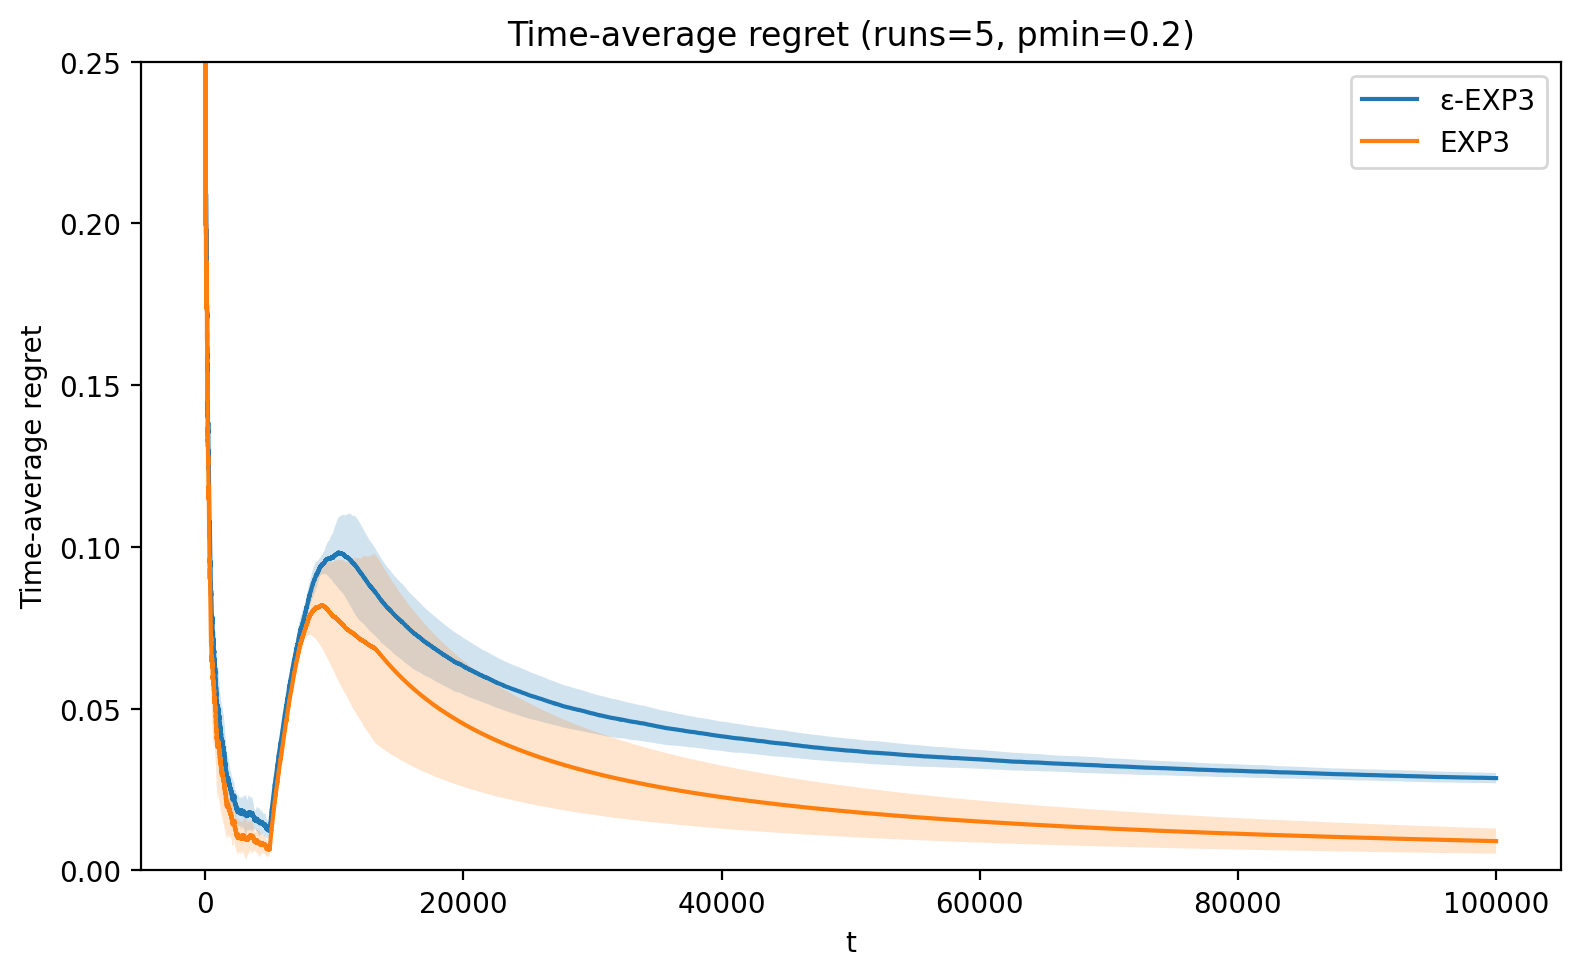
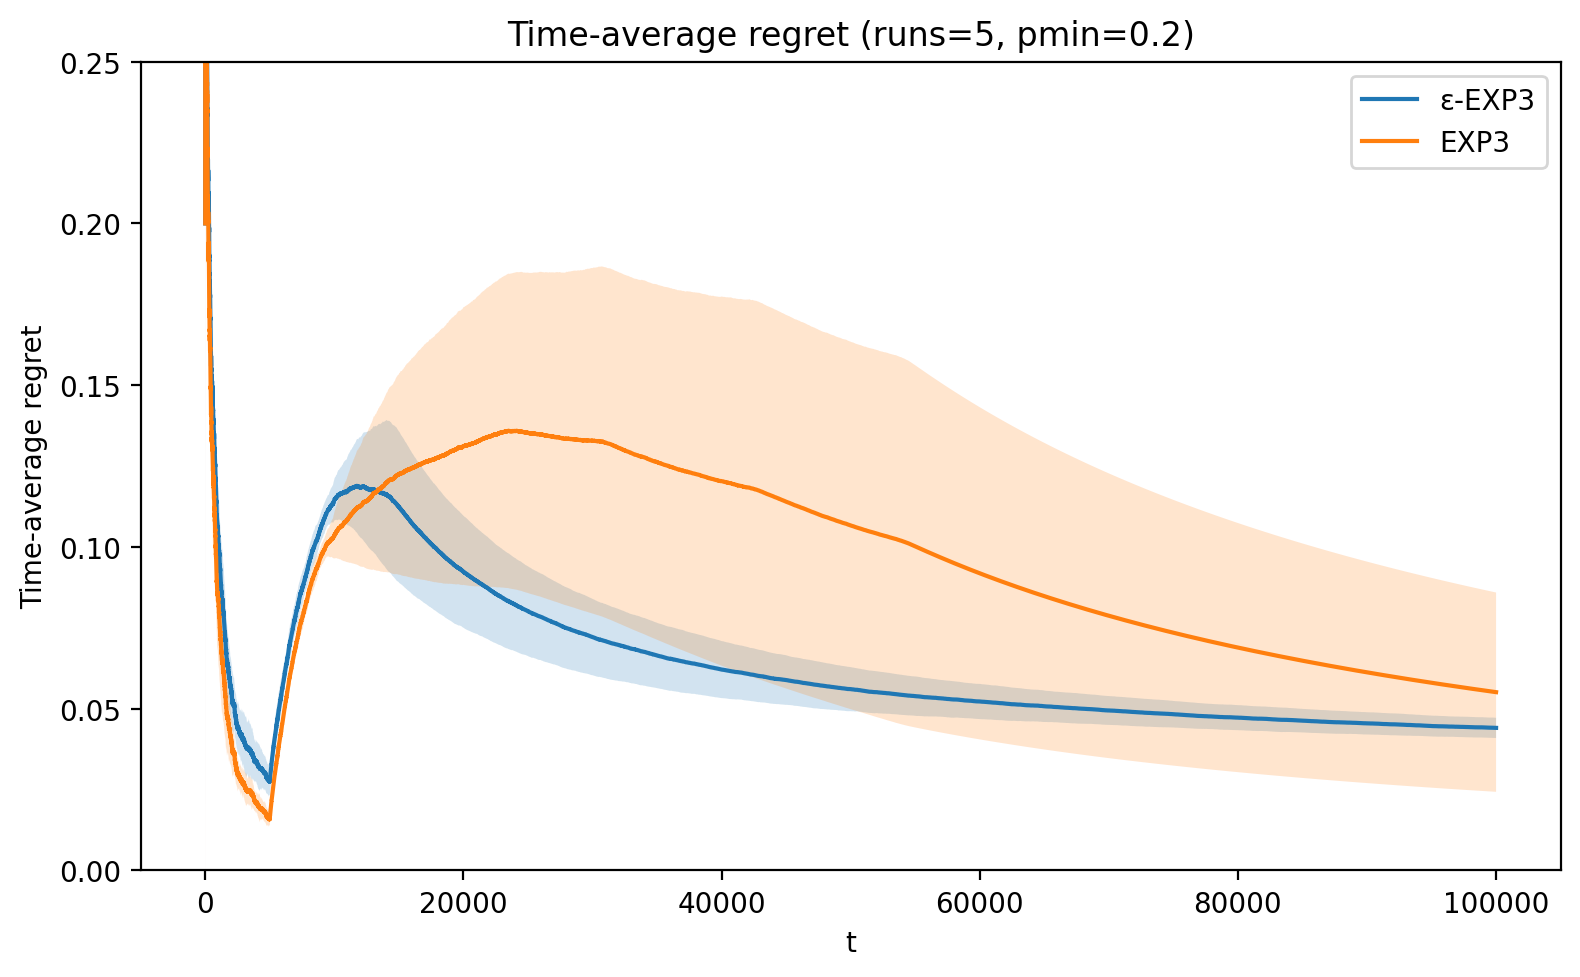
eta0.01还原论文

diff --git a/simulate.py b/simulate.py
@@ -117,7 +117,8 @@ class BernoulliEnv:
             for ell in self.tree.leaves:
                 acc[ell] += p_copy[ell]
 
-            prefix[tt - 1] = min(acc.values())
+            # prefix[tt - 1] = min(acc.values())
+            prefix[tt - 1] = acc[3]   # 基线固定为叶子3
         return prefix
 
 
@@ -131,7 +132,7 @@ def stable_softmax_weights(theta: np.ndarray, eta: float) -> np.ndarray:
         w = np.ones_like(theta)
         s = w.sum()
     p = w / s
-    p = np.maximum(p, 1e-8)  # 防止 0 概率
+    # p = np.maximum(p, 1e-8)  # 防止 0 概率
     p /= p.sum()
     return p
 
@@ -157,7 +158,7 @@ class NodeEXP3:
         return self.child_ids[idx], p, idx
 
     def update(self, chosen_index: int, observed_loss: float, local_prob: float):
-        local_prob = max(local_prob, 1e-8)
+        # local_prob = max(local_prob, 1e-8)
         ghat = observed_loss / local_prob
         self.theta[chosen_index] -= ghat
 
@@ -233,6 +234,8 @@ def time_average_regret_curve(runs=5, T=50000, pmin=0.4, eta=0.02, eps=0.05,
                 T=T, runs=runs, pmin=pmin, eta=eta, eps=eps, seed=seed
             )
         )
+    wandb.define_metric("regret/*",    step_metric="t_regret")
+    wandb.define_metric("baseline/*", step_metric="t_regret")   # ← 新增
 
     random.seed(seed); np.random.seed(seed)
     
@@ -271,7 +274,13 @@ def time_average_regret_curve(runs=5, T=50000, pmin=0.4, eta=0.02, eps=0.05,
             # 逐步记录（只在第一个 run 上记，减少日志量）
             if log_to_wandb and log_this:
                 key = "regret/eps" if algo == "eps-exp3" else "regret/exp3"
-                wandb.log({key: float(val), "t": int(t)}, step=int(t))
+                # 改成（新增 baseline 的时间平均成本）：
+                wandb.log({
+                    "t_regret": int(t),
+                    key: float(val),                              # 算法的 time-average regret
+                    "baseline/avg_cost": float(comp_prefix[t-1] / t)  # 基线：最优固定叶子的时间平均成本
+                })
+
         return np.array(regrets)
 
     # 多次独立运行求均值/方差。
@@ -280,33 +289,33 @@ def time_average_regret_curve(runs=5, T=50000, pmin=0.4, eta=0.02, eps=0.05,
     m_eps, s_eps = eps_runs.mean(0), eps_runs.std(0)
     m_exp, s_exp = exp3_runs.mean(0), exp3_runs.std(0)
 
-    plt.figure(figsize=(8,5))
-    plt.plot(Ts, m_eps, label="ε-EXP3")
-    plt.fill_between(Ts, m_eps - s_eps, m_eps + s_eps, alpha=0.2)
-    plt.plot(Ts, m_exp, label="EXP3")
-    plt.fill_between(Ts, m_exp - s_exp, m_exp + s_exp, alpha=0.2)
-    plt.xlabel("t")
-    plt.ylabel("Time-average regret")
-    plt.title(f"Time-average regret (runs={runs}, pmin={pmin})")
-    # ✅ 压缩 y 轴范围（按当前数据自动设一个窄窗）
-    ymin = min(m_eps.min(), m_exp.min()) - 0.02
-    ymax = max(m_eps.max(), m_exp.max()) + 0.02
-    # 进一步收紧窗口（例如上下各留 0.03 的边距）
-    plt.ylim(max(0, ymin), min(0.25, ymax))  # 你也可以直接写死 plt.ylim(0.04, 0.16)
-    plt.legend()
-    plt.tight_layout()
+    # plt.figure(figsize=(8,5))
+    # plt.plot(Ts, m_eps, label="ε-EXP3")
+    # plt.fill_between(Ts, m_eps - s_eps, m_eps + s_eps, alpha=0.2)
+    # plt.plot(Ts, m_exp, label="EXP3")
+    # plt.fill_between(Ts, m_exp - s_exp, m_exp + s_exp, alpha=0.2)
+    # plt.xlabel("t")
+    # plt.ylabel("Time-average regret")
+    # plt.title(f"Time-average regret (runs={runs}, pmin={pmin})")
+    # # ✅ 压缩 y 轴范围（按当前数据自动设一个窄窗）
+    # ymin = min(m_eps.min(), m_exp.min()) - 0.02
+    # ymax = max(m_eps.max(), m_exp.max()) + 0.02
+    # # 进一步收紧窗口（例如上下各留 0.03 的边距）
+    # plt.ylim(max(0, ymin), min(0.25, ymax))  # 你也可以直接写死 plt.ylim(0.04, 0.16)
+    # plt.legend()
+    # plt.tight_layout()
 
-    # 保存图片到脚本同目录
-    out = OUTDIR / "time_average_regret.png"
-    plt.savefig(out, dpi=200, bbox_inches="tight")
-    if log_to_wandb and run is not None:
-        wandb.log({
-            "fig/time_average_regret": wandb.Image(str(out))
-        })
+    # # 保存图片到脚本同目录
+    # out = OUTDIR / "time_average_regret.png"
+    # plt.savefig(out, dpi=200, bbox_inches="tight")
+    # if log_to_wandb and run is not None:
+    #     wandb.log({
+    #         "fig/time_average_regret": wandb.Image(str(out))
+    #     })
 
-    if show_plots:
-        plt.show()
-    plt.close()
+    # if show_plots:
+    #     plt.show()
+    # plt.close()
 
     if log_to_wandb and run is not None:
         run.finish()
@@ -320,6 +329,9 @@ def transient_plot(T=100000, eta=0.02, eps=0.05, seed=42, show_plots=False, log_
             run_name=f"transient_Ltoy_T{T}_eta{eta}_eps{eps}",
             config=dict(exp="transient", T=T, eta=eta, eps=eps, seed=seed)
         )
+    wandb.define_metric("transient/*", step_metric="t_transient")
+    wandb.define_metric("p_leaf/*", step_metric="t_transient")   # 新增
+
     random.seed(seed); np.random.seed(seed)
     tree = build_toy_tree()
 
@@ -339,90 +351,129 @@ def transient_plot(T=100000, eta=0.02, eps=0.05, seed=42, show_plots=False, log_
     exp_runner = AlgorithmRunner(tree, "exp3",     eta, eps)
 
 
-    from collections import deque
-    W = 1000
-    xs = []
-    r2_eps, n23_eps = [], []
-    r2_exp, n23_exp = [], []
-    win_r2_eps, win_n23_eps = deque(maxlen=W), deque(maxlen=W)
-    win_r2_exp, win_n23_exp = deque(maxlen=W), deque(maxlen=W)
+    # from collections import deque
+    # W = 1000
+    # xs = []
+    # r2_eps, n23_eps = [], []
+    # r2_exp, n23_exp = [], []
+    # win_r2_eps, win_n23_eps = deque(maxlen=W), deque(maxlen=W)
+    # win_r2_exp, win_n23_exp = deque(maxlen=W), deque(maxlen=W)
 
     for t in range(1, T + 1):
         _, _, rec1 = eps_runner.run_one_round(env, t)
         # 记录“根是否选了左子(=1)”
-        if tree.root in rec1:
-            win_r2_eps.append(1 if rec1[tree.root][0] == 1 else 0)
-        # 记录“节点1是否选了3”
-        if 1 in rec1:
-            win_n23_eps.append(1 if rec1[1][0] == 3 else 0)
+        # if tree.root in rec1:
+        #     win_r2_eps.append(1 if rec1[tree.root][0] == 1 else 0)
+        # # 记录“节点1是否选了3”
+        # if 1 in rec1:
+        #     win_n23_eps.append(1 if rec1[1][0] == 3 else 0)
 
+
+        # _, _, rec2 = exp_runner.run_one_round(env, t)
+        # if tree.root in rec2:
+        #     win_r2_exp.append(1 if rec2[tree.root][0] == 1 else 0)
+        # if 1 in rec2:
+        #     win_n23_exp.append(1 if rec2[1][0] == 3 else 0)
+
+        # # 每1k次记录一次概选择概率
+        # if t % 1000 == 0:
+        #     xs.append(t)
+        #     r2_eps.append(np.mean(win_r2_eps) if len(win_r2_eps) else 0.0)
+        #     n23_eps.append(np.mean(win_n23_eps) if len(win_n23_eps) else 0.0)
+        #     r2_exp.append(np.mean(win_r2_exp) if len(win_r2_exp) else 0.0)
+        #     n23_exp.append(np.mean(win_n23_exp) if len(win_n23_exp) else 0.0)
+        #     if log_to_wandb and run is not None:
+        #         wandb.log({
+        #             "t_transient": int(t),
+        #             "transient/root→2/eps":   float(r2_eps[-1]),
+        #             "transient/2→3/eps":      float(n23_eps[-1]),
+        #             "transient/root→2/exp3":  float(r2_exp[-1]),
+        #             "transient/2→3/exp3":     float(n23_exp[-1]),
+        #         })
+        # 即时 0/1 指示：本步是否选到对应分支
+        r2_eps_now  = 1.0 if (tree.root in rec1 and rec1[tree.root][0] == 1) else 0.0
+        n23_eps_now = 1.0 if (1 in rec1         and rec1[1][0]        == 3) else 0.0
+
+        root_eps = eps_runner.nodes[tree.root]
+        p_eps_root = root_eps.probs()[0] if isinstance(root_eps, NodeEpsEXP3) else root_eps.probs()
+        pr_eps_root_to_1 = float(p_eps_root[root_eps.child_ids.index(1)])
+
+        node1_eps = eps_runner.nodes[1]
+        p_eps_n1 = node1_eps.probs()[0] if isinstance(node1_eps, NodeEpsEXP3) else node1_eps.probs()
+        pr_eps_1_to_3 = float(p_eps_n1[node1_eps.child_ids.index(3)])
+
+        root_exp = exp_runner.nodes[tree.root]
+        p_exp_root = root_exp.probs()
+        pr_exp_root_to_1 = float(p_exp_root[root_exp.child_ids.index(1)])
+
+        node1_exp = exp_runner.nodes[1]
+        p_exp_n1 = node1_exp.probs()
+        pr_exp_1_to_3 = float(p_exp_n1[node1_exp.child_ids.index(3)])
 
         _, _, rec2 = exp_runner.run_one_round(env, t)
-        if tree.root in rec2:
-            win_r2_exp.append(1 if rec2[tree.root][0] == 1 else 0)
-        if 1 in rec2:
-            win_n23_exp.append(1 if rec2[1][0] == 3 else 0)
+        r2_exp_now  = 1.0 if (tree.root in rec2 and rec2[tree.root][0] == 1) else 0.0
+        n23_exp_now = 1.0 if (1 in rec2         and rec2[1][0]        == 3) else 0.0
+
+        if log_to_wandb and run is not None:
+            wandb.log({
+                "t_transient": int(t),
+                "transient/root→1/eps":  r2_eps_now,
+                "transient/1→3/eps":     n23_eps_now,
+                "transient/root→1/exp3": r2_exp_now,
+                "transient/1→3/exp3":    n23_exp_now,
+                "probs/eps_root_to_1":  pr_eps_root_to_1,
+                "probs/eps_n1_to_3":    pr_eps_1_to_3,
+                "probs/exp3_root_to_1": pr_exp_root_to_1,
+                "probs/exp3_n1_to_3":   pr_exp_1_to_3,
+                "p_leaf/3": float(env.p_leaf[3]),    # 新增：每步记录叶子3的当前 p
+            })
 
 
-        if t % 1000 == 0:
-            xs.append(t)
-            r2_eps.append(np.mean(win_r2_eps) if len(win_r2_eps) else 0.0)
-            n23_eps.append(np.mean(win_n23_eps) if len(win_n23_eps) else 0.0)
-            r2_exp.append(np.mean(win_r2_exp) if len(win_r2_exp) else 0.0)
-            n23_exp.append(np.mean(win_n23_exp) if len(win_n23_exp) else 0.0)
-            if log_to_wandb and run is not None:
-                wandb.log({
-                    "transient/root→2/eps": float(r2_eps[-1]),
-                    "transient/2→3/eps":    float(n23_eps[-1]),
-                    "transient/root→2/exp3": float(r2_exp[-1]),
-                    "transient/2→3/exp3":    float(n23_exp[-1]),
-                    "t": int(t)
-                }, step=int(t))
 
     # ε-EXP3 图
-    plt.figure(figsize=(7,4))
-    plt.plot(xs, r2_eps, label="Pr(root chooses 2) – ε-EXP3")
-    plt.plot(xs, n23_eps, label="Pr(node2 chooses 3) – ε-EXP3")
-    plt.xlabel("t (averaged over last 1000 rounds)")
-    plt.ylabel("Probability")
-    plt.title("Transient behavior – ε-EXP3")
-    plt.legend()
-    plt.tight_layout()
-    out1 = OUTDIR / "transient_eps.png"
-    plt.savefig(out1, dpi=200, bbox_inches="tight")
+    # plt.figure(figsize=(7,4))
+    # plt.plot(xs, r2_eps, label="Pr(root chooses 1) – ε-EXP3")
+    # plt.plot(xs, n23_eps, label="Pr(node1 chooses 3) – ε-EXP3")
+    # plt.xlabel("t (averaged over last 1000 rounds)")
+    # plt.ylabel("Probability")
+    # plt.title("Transient behavior – ε-EXP3")
+    # plt.legend()
+    # plt.tight_layout()
+    # out1 = OUTDIR / "transient_eps.png"
+    # plt.savefig(out1, dpi=200, bbox_inches="tight")
     
 
-    if show_plots:
-        plt.show()
-    plt.close()
+    # if show_plots:
+    #     plt.show()
+    # plt.close()
 
     # EXP3 图
-    plt.figure(figsize=(7,4))
-    plt.plot(xs, r2_exp, label="Pr(root chooses 2) – EXP3")
-    plt.plot(xs, n23_exp, label="Pr(node2 chooses 3) – EXP3")
-    plt.xlabel("t (averaged over last 1000 rounds)")
-    plt.ylabel("Probability")
-    plt.title("Transient behavior – EXP3")
-    plt.legend()
-    plt.tight_layout()
-    out2 = OUTDIR / "transient_exp3.png"
-    plt.savefig(out2, dpi=200, bbox_inches="tight")
-    if show_plots:
-        plt.show()
-    plt.close()
+    # plt.figure(figsize=(7,4))
+    # plt.plot(xs, r2_exp, label="Pr(root chooses 1) – EXP3")
+    # plt.plot(xs, n23_exp, label="Pr(node1 chooses 3) – EXP3")
+    # plt.xlabel("t (averaged over last 1000 rounds)")
+    # plt.ylabel("Probability")
+    # plt.title("Transient behavior – EXP3")
+    # plt.legend()
+    # plt.tight_layout()
+    # out2 = OUTDIR / "transient_exp3.png"
+    # plt.savefig(out2, dpi=200, bbox_inches="tight")
+    # if show_plots:
+    #     plt.show()
+    # plt.close()
     if log_to_wandb and run is not None:
-        wandb.log({
-            "fig/transient_eps": wandb.Image(str(out1)),
-            "fig/transient_exp3": wandb.Image(str(out2))
-        })
+        # wandb.log({
+        #     "fig/transient_eps": wandb.Image(str(out1)),
+        #     "fig/transient_exp3": wandb.Image(str(out2))
+        # })
         run.finish()
 
 # ---------- Main ----------
 
 if __name__ == "__main__":
     # 可根据机器性能调整 T / runs；默认只保存图片，不弹窗
-    time_average_regret_curve(runs=5, T=1000000, pmin=0.2, eta=0.05, eps=0.08, seed=0, show_plots=False, log_to_wandb=True, wandb_project="multistage-bandit")
-    transient_plot(T=100000, eta=0.05, eps=0.08, seed=42, show_plots=False, log_to_wandb=True, wandb_project="multistage-bandit")
-    print(f"[Saved] {OUTDIR/'time_average_regret1.png'}")
-    print(f"[Saved] {OUTDIR/'transient_eps.png'}")
-    print(f"[Saved] {OUTDIR/'transient_exp3.png'}")
+    time_average_regret_curve(runs=5, T=5000000, pmin=0.2, eta=0.001, eps=0.08, seed=0, show_plots=False, log_to_wandb=True, wandb_project="multistage-bandit")
+    transient_plot(T=5000000, eta=0.001, eps=0.08, seed=42, show_plots=False, log_to_wandb=True, wandb_project="multistage-bandit")
+    # print(f"[Saved] {OUTDIR/'time_average_regret1.png'}")
+    # print(f"[Saved] {OUTDIR/'transient_eps.png'}")
+    # print(f"[Saved] {OUTDIR/'transient_exp3.png'}")
